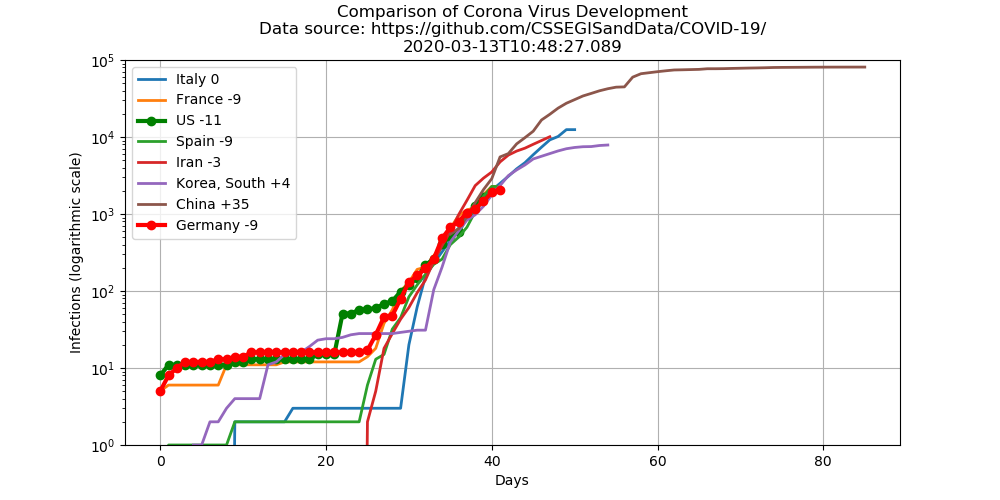
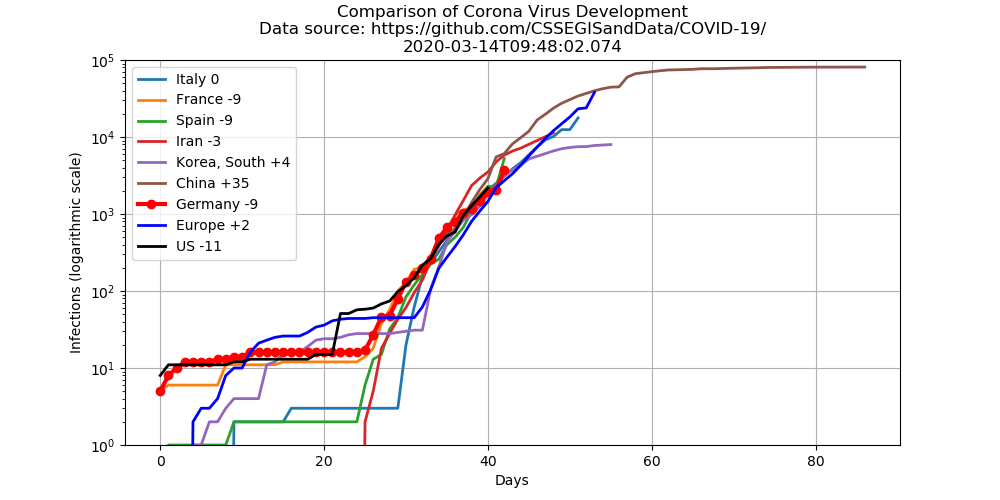
data update

diff --git a/README.md b/README.md
@@ -3,19 +3,21 @@
 The Center for Systems Science and Engineering (CSSE)  of Johns Hopkins University
 collects and publishes the data of the diesease development.
 
-- [Blog post describing the project](https://systems.jhu.edu/research/public-health/ncov/)
-- [Github repo containing the current data](https://github.com/CSSEGISandData/COVID-19)
-- [The](https://gisanddata.maps.arcgis.com/apps/opsdashboard/index.html#/bda7594740fd40299423467b48e9ecf6) corona virus map
-
-
 After an idea of [Mark Handley](https://twitter.com/MarkJHandley/status/1237119688578138112?s=20) we take the same
 data source and plot the data in a different way for those countries which have more than 1000 cases.
 
 
-The data  for the  US are  based on  the state  data, county  data are
-ignored, and there are some  inconsistencies in the time series. The issue currently is
-[discussed](https://github.com/CSSEGISandData/COVID-19/issues/571)
-with the maintainers of the data.
+- [Blog post describing the project at CSSE](https://systems.jhu.edu/research/public-health/ncov/).
+- [The](https://gisanddata.maps.arcgis.com/apps/opsdashboard/index.html#/bda7594740fd40299423467b48e9ecf6) corona virus map.
+- Data for the plots come from the [github repository containing the current data](https://github.com/CSSEGISandData/COVID-19)
+  which are [updated once per day around 23:59 (UTC)](https://github.com/CSSEGISandData/COVID-19/tree/master/csse_covid_19_data#update-frequency]
+  and may lag behind the data in the map.    
+  Data  for the  US are  based on  the state  data, county  data are
+  ignored.  Data  for  Europe  currently  include   the  EU,
+  Switzerland, Norway, UK only.
+
+
+
 
 
 ## Absolute numbers
